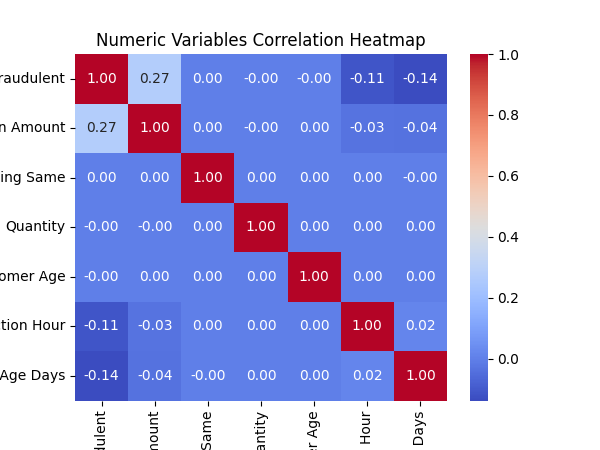
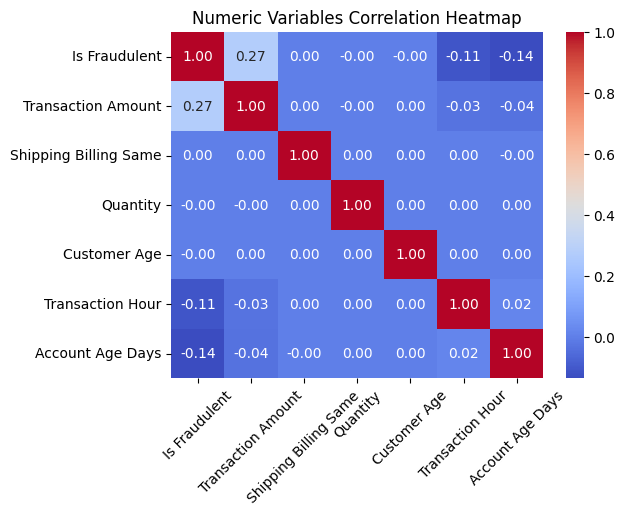
16-06-24 streamlit

diff --git a/Streamlit_FraudDetection.py b/Streamlit_FraudDetection.py
@@ -6,19 +6,12 @@ import matplotlib.pyplot as plt
 import seaborn as sns
 import pycaret
 from scipy.stats import boxcox
+import zipfile
 
-# Cargar el dataset
-data_path = 'data/transactions_processed.csv'
-df = pd.read_csv(data_path)
-
-# Cargar el modelo y el transformador
-def boxcox_transform(X, lmbda):
-    return boxcox(X, lmbda=lmbda)
-columns_transformer = joblib.load("src\models\column_transformer.joblib")
-# model = joblib.load("src\models/best_test_random_sampling_Gradient Boosting_pipeline.joblib")# Random Sampling
-# model = joblib.load("src/best_test_Gradient_Boosting_pipeline.joblib")# Gradient Boosting
-model = joblib.load("src\models/final_best_model_pipeline.joblib")#pycaret
-
+import plotly.express as px
+import matplotlib.pyplot as plt
+import plotly.graph_objects as go 
+import plotly.subplots as sp
 
 # Configuración de la página
 st.set_page_config(page_title="Fraud Detection Model 🕵🏻", layout="wide", page_icon="🔎")
@@ -26,93 +19,219 @@ st.set_page_config(page_title="Fraud Detection Model 🕵🏻", layout="wide", p
 # Título de la aplicación
 st.title("Fraud Detection Model 🕵🏻")
 
+# Cargar el dataset
+@st.cache_data  
+def load_data(path):
+    df = pd.read_csv(path)
+    return df
+
+data_processed_path = 'data/transactions_processed.csv'
+df = load_data(data_processed_path)
+
+# # Raw Data
+# part1 = 'data/transactions.part1.rar'
+# part2 = 'data/transactions.part2.rar'
+# combined_zip = 'data_combined.zip'
+
+# with open(combined_zip, 'wb') as output_file:
+#     for part in [part1, part2]:
+#         with open(part, 'rb') as f:
+#             output_file.write(f.read())
+
+# # Paso 2: Descomprimir el archivo combinado
+# with zipfile.ZipFile(combined_zip, 'r') as zip_ref:
+#     zip_ref.extractall('extracted_data')
+
+# Paso 3: Cargar el dataset
+extracted_file_path = 'extracted_data/transactions.csv'  # Cambia 'your_dataset.csv' por el nombre real del archivo
+# df_raw = load_data(extracted_file_path)
+
+# Cargar el modelo y el transformador
+def boxcox_transform(X, lmbda):
+    return boxcox(X, lmbda=lmbda)
+columns_transformer = joblib.load("src\models\column_transformer.joblib")
+model = joblib.load("src\models/best_test_random_sampling_Gradient Boosting_pipeline.joblib")# Random Sampling
+# model = joblib.load("src/best_test_Gradient_Boosting_pipeline.joblib")# Gradient Boosting
+# model = joblib.load("src\models/best_test_random_sampling_Gradient Boosting_pipeline.joblib")#pycaret
+
+
+
 # Sidebar para navegación
 st.sidebar.title('Navegación')
-options = st.sidebar.radio('Selecciona una opción:', ['Introduction', 'EDA', 'Model', 'Gráficas del Modelo'])
+options = st.sidebar.radio('Selecciona una opción:', ['Introduction', 'EDA & CDA', 'Model', 'Conclusion'])
 
 # Mostrar dataset
 if options == 'Introduction':
     st.header('Introduction')
-    st.write('El fraude en el comercio electrónico es un problema significativo y en aumento, que ocasiona pérdidas financieras para las empresas y una experiencia negativa para los clientes.')
-    st.write('Los estafadores utilizan diversas tácticas, como tarjetas de crédito robadas, secuestro de cuentas y fraude amistoso, lo que provoca devoluciones de cargos, interrupciones operativas y daños a la reputación.')
-    st.write('Por eso es importante contar con un modelo que pueda predecir si una transacción es fraudulenta o legítima. En este proyecto, se han utilizado datos de transacciones de comercio electrónico para analisar los')
-    st.write('patrones de fraude y crear un modelo que pueda predecir si una transacción es fraudulenta o legítima.')
+    ##########
+    st.write('poner una estructura del trabajo')
+    #########
+    st.write('El fraude en el comercio electrónico es un problema significativo y en aumento, que ocasiona pérdidas financieras para las empresas y una experiencia negativa para los clientes.Los estafadores utilizan diversas tácticas, como tarjetas de crédito robadas, secuestro de cuentas y fraude amistoso, lo que provoca devoluciones de cargos, interrupciones operativas y daños a la reputación.Por eso es importante contar con un modelo que pueda predecir si una transacción es fraudulenta o legítima. En este proyecto, se han utilizado datos de transacciones de comercio electrónico para analisar los patrones de fraude y crear un modelo que pueda predecir si una transacción es fraudulenta o legítima.')
+    # st.write('El fraude en el comercio electrónico es un problema significativo y en aumento, que ocasiona pérdidas financieras para las empresas y una experiencia negativa para los clientes.')
+    # st.write('Los estafadores utilizan diversas tácticas, como tarjetas de crédito robadas, secuestro de cuentas y fraude amistoso, lo que provoca devoluciones de cargos, interrupciones operativas y daños a la reputación.')
+    # st.write('Por eso es importante contar con un modelo que pueda predecir si una transacción es fraudulenta o legítima. En este proyecto, se han utilizado datos de transacciones de comercio electrónico para analisar los')
+    # st.write('patrones de fraude y crear un modelo que pueda predecir si una transacción es fraudulenta o legítima.')
     st.write('El dataset despues de ser procesado es de la siguiente manera:')
-    st. write(df.head())
-    st.write(df.shape)
+    # st.write(df_raw.head())
+    # st.write(df_raw.shape)
     st.write('Creditos :https://www.kaggle.com/datasets/shriyashjagtap/fraudulent-e-commerce-transactions/data)')
     
 
 # EDA
-elif options == 'EDA':
+elif options == 'EDA & CDA':
     st.header('Exploratory Data Analysis (EDA)')
-    st.subheader('Estadísticas Descriptivas')
-    st.write(df.describe())
-    #Definir columnas
-    col1, col2 = st.columns(2)
-    with col1:
-        st.subheader('Distribución de las Variables')
-        selected_column = st.selectbox('Selecciona una columna para ver su distribución:', df.columns)
-        fig, ax = plt.subplots()
-        sns.histplot(df[selected_column], kde=True, ax=ax)
-        st.pyplot(fig)
-    with col2:
-        st.subheader('Gráficas de Dispersión')
-        x_column = st.selectbox('Selecciona la variable X:', df.columns)
-        y_column = st.selectbox('Selecciona la variable Y:', df.columns)
-        fig, ax = plt.subplots()
-        sns.scatterplot(x=df[x_column], y=df[y_column], ax=ax)
-        st.pyplot(fig)
+    st.subheader('Dataset preprocessing')
+    st.write(df.head(5))
+    st.write(df.shape)
+    tab1, tab2 , tab3 = st.tabs(['Analisis Univariable', 'Analisis Bivariable', 'Analisis Multivariable'])
+    
+    with tab1:
+        st.subheader('Analisis Univariable:')
 
+        col1, col2 = st.columns(2)
+        with col1:
+            st.image(r'graphs/univariate_analysis/target_variable_pie_chart.png', width=600 )
+        with col2:            
+            st.image(r'graphs/univariate_analysis\shipping-billing_same_pie_charts.png', width=600)
+
+        # st.image(r'graphs/univariate_analysis/categorical_variables_pie_charts.png', use_column_width=True)
+        ##########
+        #FALTA PONER LAS GRAFICAS HTML 
+        @st.cache_data 
+        def fig_html():
+            numeric_variables = ['Transaction Amount', 'Customer Age', 'Transaction Hour']
+            fig = sp.make_subplots(rows=1, cols=len(numeric_variables), subplot_titles=numeric_variables) # create a figure with subplots
+
+            # add a loop that creates a histogram for each numerical variable
+            for i, variable in enumerate(numeric_variables, start=1):
+                fig.add_trace(go.Histogram(x=df[variable], marker=dict(line=dict(width=0.5, color='DarkSlateGrey')), opacity=0.6, name=variable), row=1, col=i)
+
+            fig.update_layout(title_text="Histograms of numerical variables", autosize=False ,width = 600*len(numeric_variables), height = 450) # set the size of the graph
+            return fig 
+        fig = fig_html()
+        st.plotly_chart(fig, use_container_width=True)  
+        #
+
+        ########## 
+    with tab2:
+        st.subheader('Analisis Bivariable:')  
+        st.image(r'graphs\bivariate_analysis/categorical_variables_barplots.png',use_column_width=True)  
+        col1, col2= st.columns(2)
+        with col1:
+            st.image(r'graphs\bivariate_analysis/account_age_bins_barplot.png', width=900)
+        with col2:
+            st.image(r'graphs\bivariate_analysis/transaction_Hour_bins_barplot.png', width=900)
+        # box plot
+        numeric_variables = ['Transaction Amount', 'Transaction Hour', 'Account Age Days']
+        fig = sp.make_subplots(rows=1, cols=len(numeric_variables), subplot_titles=[f"{var} vs Is Fraudulent" for var in numeric_variables])
+
+        # change target variable labels to 'Legitimate' and 'Fraudulent'
+        df_temp = df.copy() # create a copy of the dataframe to avoid modifying the original dataframe
+        df_temp['Is Fraudulent'] = df_temp['Is Fraudulent'].map({0: 'Legitimate', 1: 'Fraudulent'})
+
+        # add a loop that creates a box plot for each numerical variable
+        for i, variable in enumerate(numeric_variables, start=1):
+            fig.add_trace(px.box(df_temp, x='Is Fraudulent', y=variable).data[0], row=1, col=i)
+        fig.update_layout(title_text="Box Plots of numerical variables vs Target variable", autosize=False ,width = 600*len(numeric_variables), height = 500) # set the size of the graph
+
+        st.plotly_chart(fig, use_container_width=True)     
+    with tab3:
+        st.subheader('Analisis Multivariable:')
+        st.image(r'graphs/multivariate_analysis/numerical_variables_corr_matrix.png',width=900)      
 # Modelo
 elif options == 'Model':
-    st.header('Model')
-    st.markdown('Introduce the values for the transaction you would like to evaluate', unsafe_allow_html=True)
+    tab1 , tab2 = st.tabs(['Model structure', 'Predictions'])
 
-    def prediction(Transaction_Amount, Payment_Method, Product_Category,Quantity, Device_Used, Shipping_Billing_Same,  Account_Age_Range, Transaction_Hour_Range, Customer_Age_Range) :
-        # Crear un DataFrame con los nombres de columna correctos
-        input_data = pd.DataFrame([[Transaction_Amount, Payment_Method, Product_Category, Quantity, Device_Used, Shipping_Billing_Same,  Account_Age_Range, Transaction_Hour_Range, Customer_Age_Range]], 
-                                  columns=['Transaction Amount', 'Payment Method', 'Product Category', 'Quantity','Device Used','Shipping Billing Same', 'Account Age Range','Transaction Hour Range', 'Customer Age Range'])
-        # # Transformar los datos
-        st.write(input_data) # In case you want to display the input data before transformation
-        input_data = columns_transformer.transform(input_data)
-        st.write(input_data) # In case you want to display the input data before prediction
-        # Hacer la predicción
-        prediction = model.predict(input_data)
+    with tab1:
+        st.header('Model Structure')
 
-        if prediction == 0:
-            pred = 'Legitimate'
-        else:
-            pred = 'Fraudulent'
-        return pred
+        col1, col2 = st.columns(2)
+        
+        with col1:
+            #frist balance
+            st.write('Proportion of Fraudulent After Percentil Balancing the Dataset:')
+            st.image(r'graphs/ML/target_variable_after_frist_percentil_sampling_pie_chart.png', width=500)
+
+            #pipeline structure
+            st.write('Pipeline Structure of the Model:')
+            st.image(r'graphs/pipeline_percentil_sampling.png',width=500)
+
+            #second balance
+            st.write('Proportion of Fraudulent Transactions Before Sampling Techniques')
+            st.image(r'graphs/ML/target_variable_after_second_percentil_sampling_pie_chart.png',width=500)
+        with col2:
+            #frist balance
+            st.write('Proportion of Fraudulent Transactions with Random Balancing')
+            st.image(r'graphs/ML/target_variable_after_frist_random_balancing_pie_chart.png',width=500)
+
+            #pipeline structure
+            st.write('Pipeline Structure of the Model:')
+            st.image(r'graphs/pipeline_random_sampling.png',width=500)
+            
+            #second balance
+            st.write('Proportion of Fraudulent Transactions Before Sampling Techniques')
+            st.image(r'graphs/ML/target_variable_after_second_random_sampling_pie_chart.png',width=500)  
+
+    #predictions   
+    with tab2:    
+        st.header('Model')
+        st.markdown('Introduce the values for the transaction you would like to evaluate', unsafe_allow_html=True)
+        
+        @st.cache_resources
+        def prediction(Transaction_Amount, Payment_Method, Product_Category,Quantity, Device_Used, Shipping_Billing_Same,  Account_Age_Range, Transaction_Hour_Range, Customer_Age_Range) :
+            # Crear un DataFrame con los nombres de columna correctos
+            input_data = pd.DataFrame([[Transaction_Amount, Payment_Method, Product_Category, Quantity, Device_Used, Shipping_Billing_Same,  Account_Age_Range, Transaction_Hour_Range, Customer_Age_Range]], 
+                                    columns=['Transaction Amount', 'Payment Method', 'Product Category', 'Quantity','Device Used','Shipping Billing Same', 'Account Age Range','Transaction Hour Range', 'Customer Age Range'])
+            # # Transformar los datos
+            st.write(input_data) # In case you want to display the input data before transformation
+            input_data = columns_transformer.transform(input_data)
+            st.write(input_data) # In case you want to display the input data before prediction
+            # Hacer la predicción
+            prediction = model.predict(input_data)
+
+            if prediction == 0:
+                pred = 'Legitimate'
+            else:
+                pred = 'Fraudulent'
+            return pred
     
-    # Create the input features
-         
-    Transaction_Amount= st.slider('Transaction Amount', 0, 12500, disabled=False)
-    Payment_Method = st.selectbox('Payment Method', ['Credit Card', 'Debit Card', 'Paypal', 'Bank Transfer'], index=0)
-    Product_Category = st.selectbox('Product Category', ['Home & Garden', 'Electronics', 'Toys & Games', 'Clothing', 'Health & Beauty'], index=0)
-    Quantity = st.slider('Quantity', 0, 20, disabled=False)
-    Device_Used = st.selectbox('Device Used', ['Desktop', 'Mobile', 'Tablet'], index=0)
-    Shipping_Billing_Same = st.selectbox('Shipping Billing Same', ['No', 'Yes'], index=0)
-    if Shipping_Billing_Same == 'No':
-        Shipping_Billing_Same = 0
-    else:
-        Shipping_Billing_Same = 1
-    Account_Age_Range= st.selectbox('Account Age Range', ['1-3 months', '3-6 months', '6-9 months', '6-12 months'], index=0)
-    Transaction_Hour_Range = st.selectbox('Transaction Hour Range', ['Dawn', 'Morning', 'Afternoon', 'Evening'], index=0)
-    Customer_Age_Range = st.selectbox('Customer Age Range', ['0-9', '10-19', '20-29', '30-39', '40-49', '50-59', '60-69'], index=0)
-    result =""
-
-    # Hacer la predicción cuando se haga clic en 'Predict'
-    if st.button("Predict"): 
-        result = prediction(Transaction_Amount, Payment_Method, Product_Category,Quantity, Device_Used, Shipping_Billing_Same,  Account_Age_Range, Transaction_Hour_Range, Customer_Age_Range) 
-        if result == 'Legitimate':
-            st.success('Your transaction is {}'.format(result))
+        # Create the input features
+            
+        Transaction_Amount= st.slider('Transaction Amount', 0, 12500, disabled=False)
+        Payment_Method = st.selectbox('Payment Method', ['Credit Card', 'Debit Card', 'Paypal', 'Bank Transfer'], index=0)
+        Product_Category = st.selectbox('Product Category', ['Home & Garden', 'Electronics', 'Toys & Games', 'Clothing', 'Health & Beauty'], index=0)
+        Quantity = st.slider('Quantity', 0, 20, disabled=False)
+        Device_Used = st.selectbox('Device Used', ['Desktop', 'Mobile', 'Tablet'], index=0)
+        Shipping_Billing_Same = st.selectbox('Shipping Billing Same', ['No', 'Yes'], index=0)
+        if Shipping_Billing_Same == 'No':
+            Shipping_Billing_Same = 0
         else:
-            st.error('Your transaction is {}'.format(result))
+            Shipping_Billing_Same = 1
+        Account_Age_Range= st.selectbox('Account Age Range', ['1-3 months', '3-6 months', '6-9 months', '6-12 months'], index=0)
+        Transaction_Hour_Range = st.selectbox('Transaction Hour Range', ['Dawn', 'Morning', 'Afternoon', 'Evening'], index=0)
+        Customer_Age_Range = st.selectbox('Customer Age Range', ['0-9', '10-19', '20-29', '30-39', '40-49', '50-59', '60-69'], index=0)
+        result =""
+
+        # Hacer la predicción cuando se haga clic en 'Predict'
+        if st.button("Predict"): 
+            result = prediction(Transaction_Amount, Payment_Method, Product_Category,Quantity, Device_Used, Shipping_Billing_Same,  Account_Age_Range, Transaction_Hour_Range, Customer_Age_Range) 
+            if result == 'Legitimate':
+                st.success('Your transaction is {}'.format(result))
+            else:
+                st.error('Your transaction is {}'.format(result))
 
 # Gráficas del Modelo
-elif options == 'Gráficas del Modelo':
+elif options == 'Conclusion':
     st.header('Gráficas del Modelo')
     st.write('Aquí mostraremos las gráficas del modelo.')
-    # Agregar tus gráficas del modelo aquí
+    # Poner las mismas conclusiones que etsa en el notebook... 
+
+
+    ##### PREGUNTAS A ANTONIO #####
+    # 1. Hay que mostar el dataset? y ambos dataset?
+    # 2. en el sidebar, hay que poner algo más a parte de las opciones?(ahora mismo queda un poco vacio)
+    # 3- las graficas hay que comentarlas, para que el lector pueda sacar conclusiones? o se explica solo en palabras?
+    # 4- Cuantas graficas hay que poner? un ejemplo de cada una (Cat, num ...)
+    # 5- Tenemos que hablar de la matrix del modelo?  en que parte?  en la conclusion o en la parte de la estructura del modelo? 
+    # 6- hay que decir que el dataset es ta hecho sinteticamente?
+    # 7- en los pipelines como podemos explicar matematicamente los procesos? 
